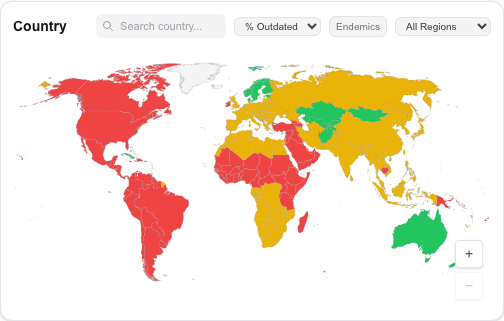
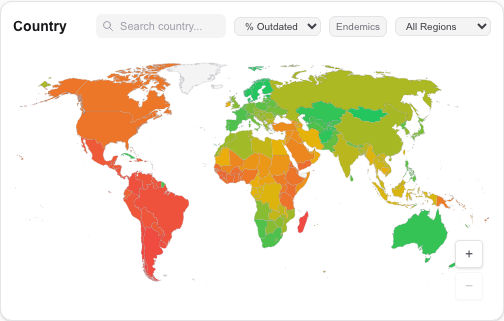
Switch % Outdated map coloring from 3-stop threshold to a linear gradient
The threshold view (green <10% / amber <50% / red >=50%) lumped most
countries for a high-outdated taxon like reptiles into the same red
bucket, which tells you "many countries need attention" but not which
ones need it most. A linear green->amber->red gradient over the full
0-100% range (not log-scaled, since percentages are already bounded
and evenly distributed unlike raw counts) keeps countries distinguishable
for prioritization.

diff --git a/app/src/components/WorldMap.tsx b/app/src/components/WorldMap.tsx
@@ -101,10 +101,18 @@ interface CountryStats {
   };
 }
 
-// Threshold color scale for % outdated: matches TaxaSummary's getOutdatedBarColor
-// (green <10%, amber <50%, red >=50%) so the two views read the same way.
+// Linear gradient for % outdated: green (0%) -> amber (50%) -> red (100%).
+// Unlike the species/occurrence heatmap, % is already bounded and roughly
+// uniformly distributed, so a plain linear scale (no log) keeps countries
+// distinguishable across the full range instead of clumping most into one bucket.
 function getOutdatedColor(percent: number): string {
-  return percent < 10 ? "#22c55e" : percent < 50 ? "#eab308" : "#ef4444";
+  const p = Math.max(0, Math.min(100, percent));
+  const green: [number, number, number] = [34, 197, 94]; // #22c55e
+  const amber: [number, number, number] = [234, 179, 8]; // #eab308
+  const red: [number, number, number] = [239, 68, 68]; // #ef4444
+  const [from, to, t] = p <= 50 ? [green, amber, p / 50] : [amber, red, (p - 50) / 50];
+  const [r, g, b] = from.map((c, i) => Math.round(c + (to[i] - c) * t));
+  return `rgb(${r}, ${g}, ${b})`;
 }
 
 // Color scale for heatmap: pale green -> medium green -> dark green
@@ -358,7 +366,7 @@ function WorldMap({ selectedCountries, onCountrySelect, selectedTaxon, precomput
   // since outdated counts are computed alongside species counts, not fetched separately)
   const activeStats = colorMode === "occurrences" ? (occurrenceStats || {}) : speciesStats;
 
-  // Calculate max value for heatmap scaling (unused in "outdated" mode, which uses fixed thresholds)
+  // Calculate max value for heatmap scaling (unused in "outdated" mode, which uses a fixed 0-100% gradient)
   const maxValue = Object.values(activeStats).reduce(
     (max, stat) => Math.max(max, colorMode === "species" ? stat.species : stat.occurrences),
     0
